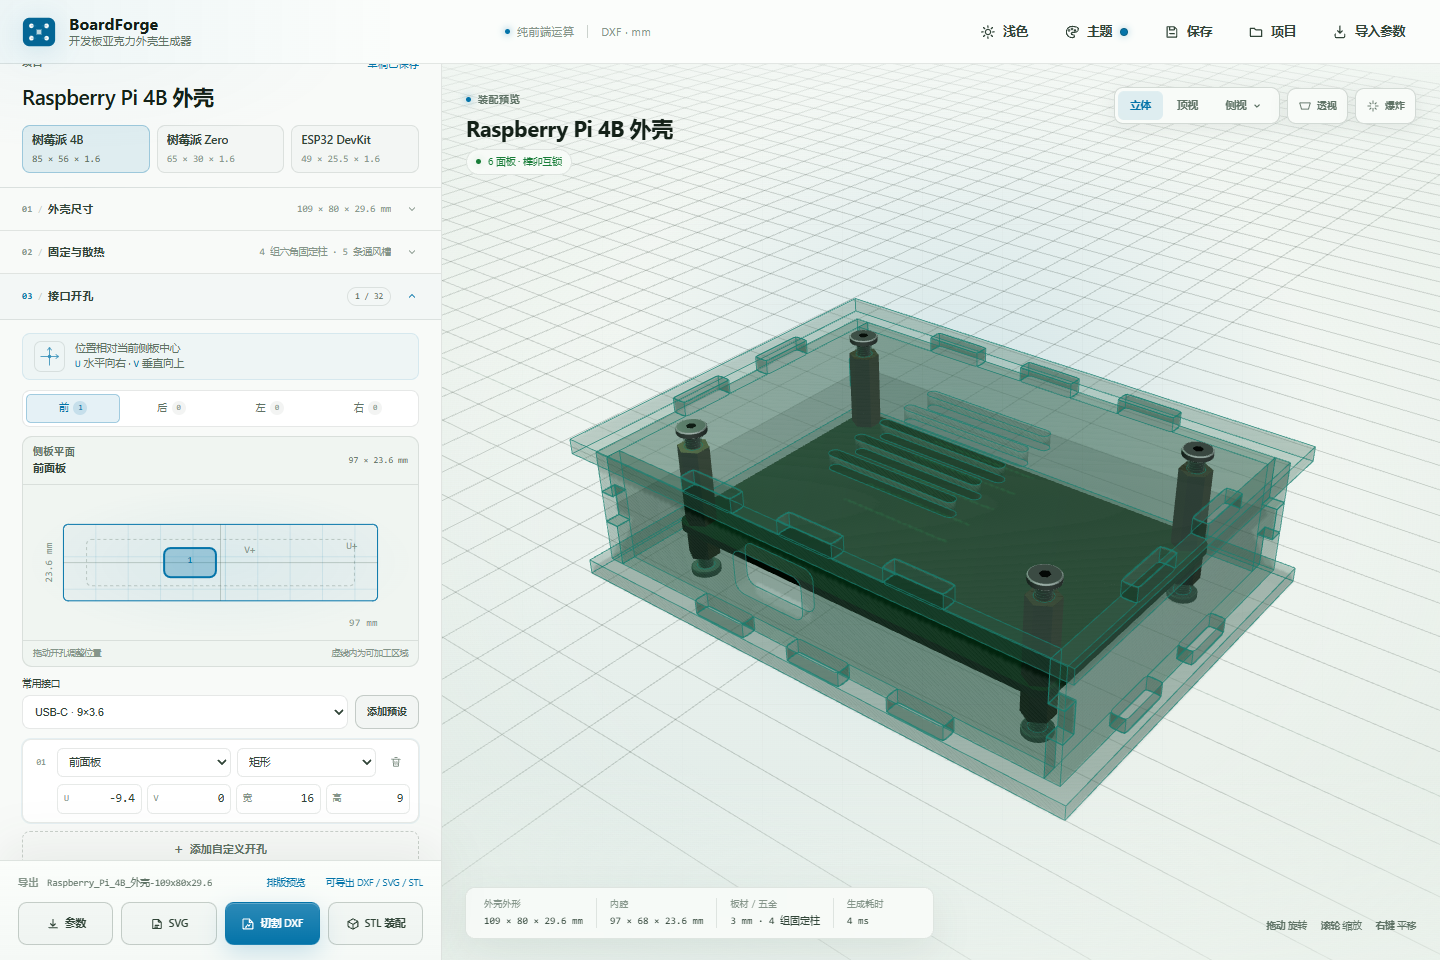
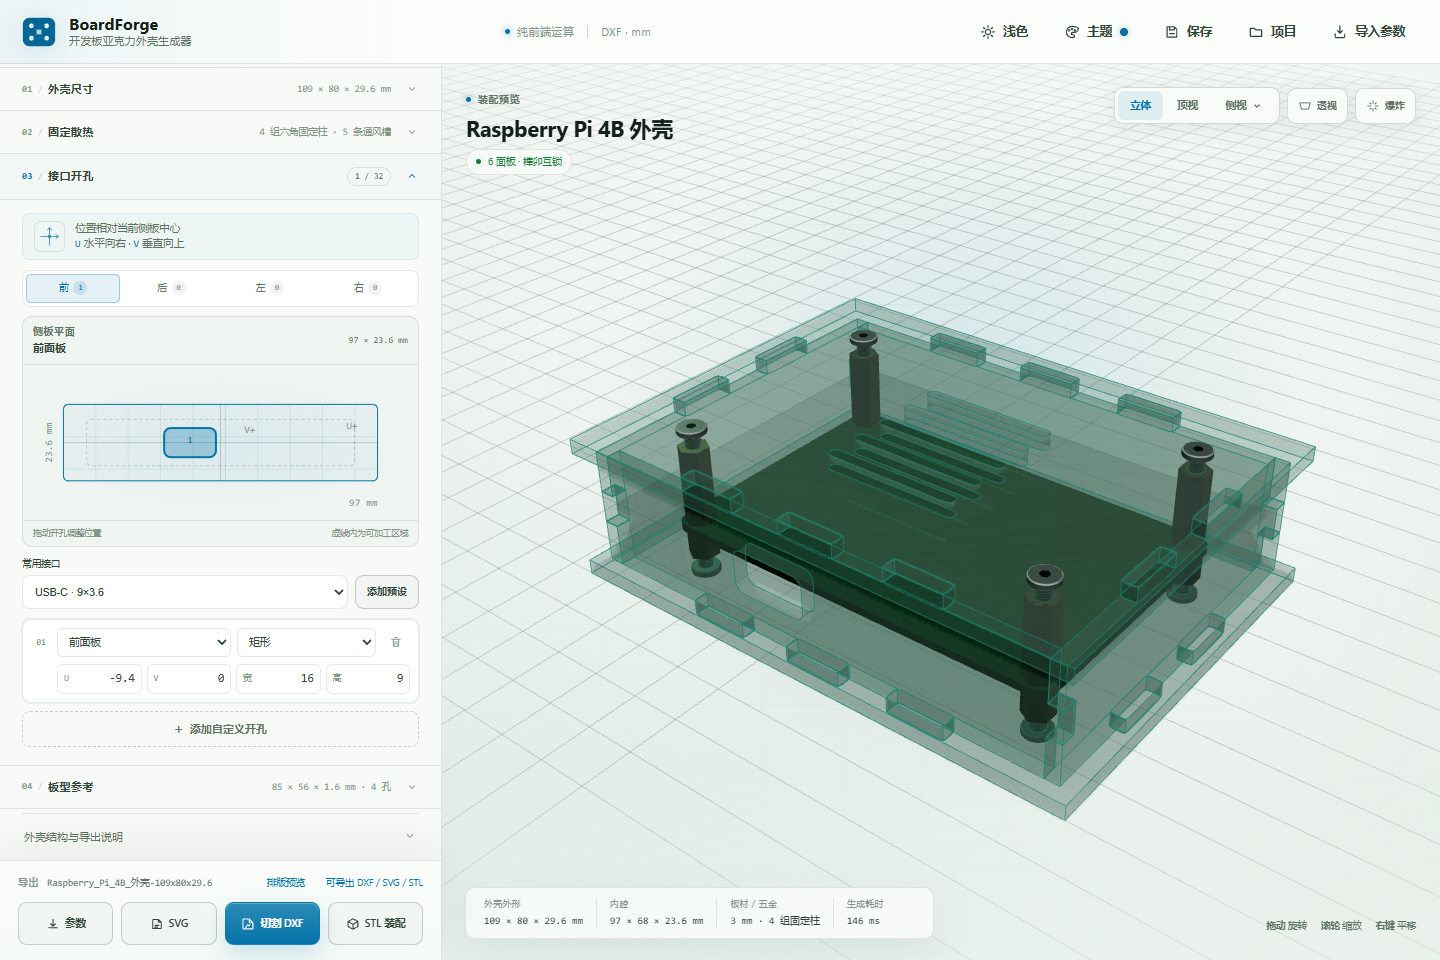
调整：侧栏导航统一为四字标题

diff --git a/dist/index.html b/dist/index.html
@@ -4246,7 +4246,7 @@ html[data-mode="light"] .toast-icon {
             <details class="panel-section accordion-section" data-accordion="mechanical">
               <summary class="section-summary">
                 <span class="summary-main">
-                  <span class="eyebrow"><span class="step">02</span> 固定与散热</span>
+                  <span class="eyebrow"><span class="step">02</span> 固定散热</span>
                   <span class="summary-meta" id="mechanicalSummary">4 组固定柱 · 5 条通风槽</span>
                 </span>
                 <svg class="summary-chevron" viewBox="0 0 20 20" aria-hidden="true"><path d="m6 8 4 4 4-4" /></svg>
@@ -4376,7 +4376,7 @@ html[data-mode="light"] .toast-icon {
             <details class="panel-section accordion-section board-details" id="boardDetails" data-accordion="board">
               <summary class="section-summary">
                 <span class="summary-main">
-                  <span class="eyebrow"><span class="step">04</span> 开发板参考</span>
+                  <span class="eyebrow"><span class="step">04</span> 板型参考</span>
                   <span class="summary-meta" id="boardSummary">85 × 56 × 1.6 mm · 4 孔</span>
                 </span>
                 <svg class="summary-chevron" viewBox="0 0 20 20" aria-hidden="true"><path d="m6 8 4 4 4-4" /></svg>

diff --git a/index.html b/index.html
@@ -184,7 +184,7 @@
             <details class="panel-section accordion-section" data-accordion="mechanical">
               <summary class="section-summary">
                 <span class="summary-main">
-                  <span class="eyebrow"><span class="step">02</span> 固定与散热</span>
+                  <span class="eyebrow"><span class="step">02</span> 固定散热</span>
                   <span class="summary-meta" id="mechanicalSummary">4 组固定柱 · 5 条通风槽</span>
                 </span>
                 <svg class="summary-chevron" viewBox="0 0 20 20" aria-hidden="true"><path d="m6 8 4 4 4-4" /></svg>
@@ -314,7 +314,7 @@
             <details class="panel-section accordion-section board-details" id="boardDetails" data-accordion="board">
               <summary class="section-summary">
                 <span class="summary-main">
-                  <span class="eyebrow"><span class="step">04</span> 开发板参考</span>
+                  <span class="eyebrow"><span class="step">04</span> 板型参考</span>
                   <span class="summary-meta" id="boardSummary">85 × 56 × 1.6 mm · 4 孔</span>
                 </span>
                 <svg class="summary-chevron" viewBox="0 0 20 20" aria-hidden="true"><path d="m6 8 4 4 4-4" /></svg>

diff --git a/docs/IMPLEMENTATION.md b/docs/IMPLEMENTATION.md
@@ -225,7 +225,7 @@ BOM 可一键复制为文本，方便采购或装配记录。
 ### 侧边栏折叠模块
 
 - 项目名称和开发板预设始终可见，不参与折叠；
-- 「外壳尺寸」「固定与散热」「接口开孔」「开发板参考」使用原生 `<details>/<summary>`；
+- 「外壳尺寸」「固定散热」「接口开孔」「板型参考」使用原生 `<details>/<summary>`；
 - 一次最多展开一个主要模块，打开新模块会自动收起旧模块；
 - 折叠标题保留关键摘要：外形尺寸、固定柱与通风数量、开孔数量、板子尺寸与孔数；
 - 表单控件只是隐藏，不销毁，因此折叠不会丢失用户输入；
